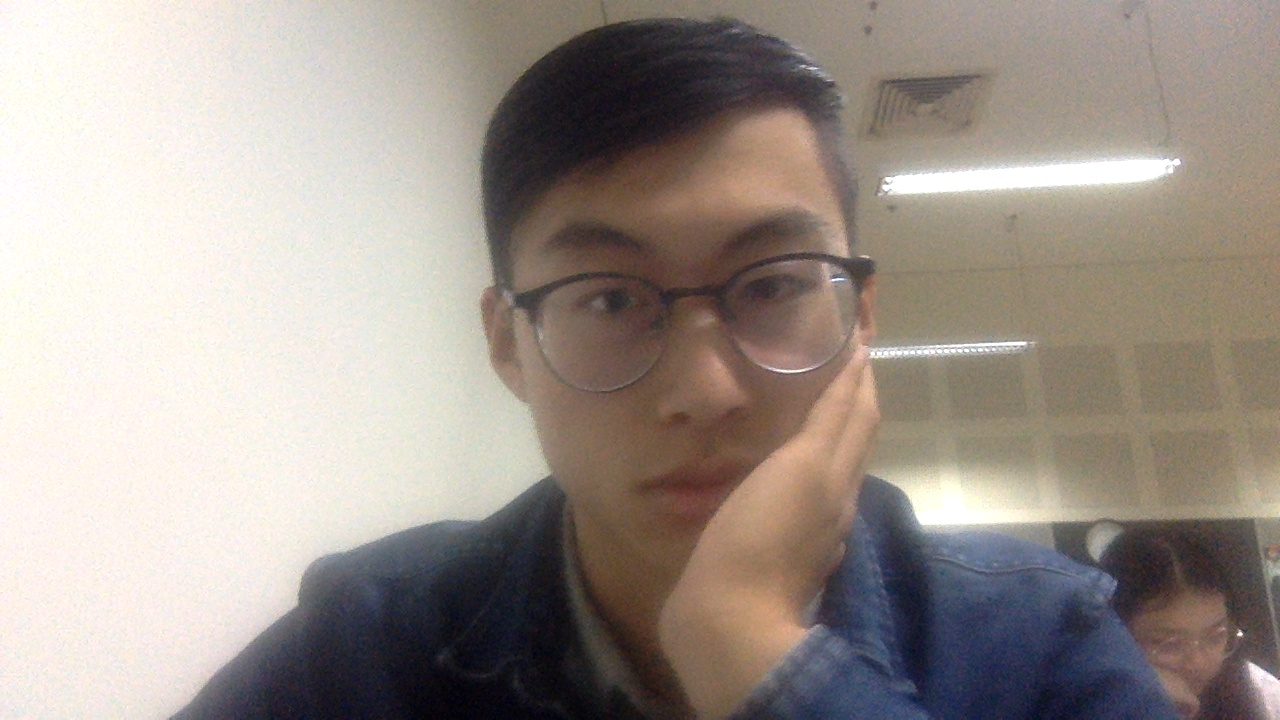
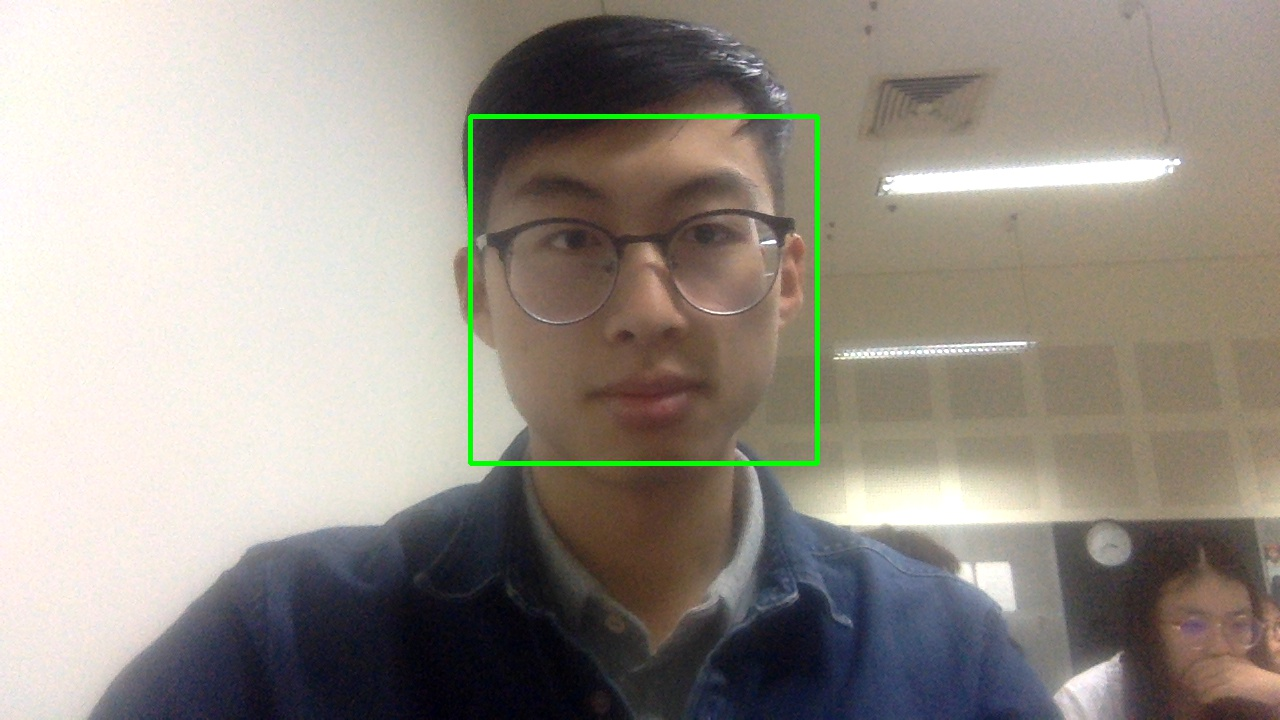
move part function to core detector

Changed region(s): [[0.0312, 0.0, 1.0, 1.0], [0.375, 0.825, 0.4062, 0.8861]]

diff --git a/src/team19/java/application/Controller.java b/src/team19/java/application/Controller.java
@@ -34,6 +34,7 @@ import javafx.scene.image.ImageView;
 import javafx.scene.layout.GridPane;
 import javafx.scene.layout.Pane;
 import javafx.scene.text.Text;
+import team19.java.core.Detector;
 import team19.java.util.ImageProcessing;
 
 /**
@@ -42,6 +43,7 @@ import team19.java.util.ImageProcessing;
  * 
  */
 public class Controller {
+	private Detector detector;
 	@FXML
 	private Text testInfo;
 
@@ -118,9 +120,7 @@ public class Controller {
 	private boolean addUserActive;
 	private boolean addRecordActive;
 
-	// face cascade classifier
-	private CascadeClassifier faceCascade;
-	private int absoluteFaceSize;
+
 
 	/**
 	 * Init the controller, at start time
@@ -133,9 +133,9 @@ public class Controller {
 		System.loadLibrary(Core.NATIVE_LIBRARY_NAME);
 		// initialize capture
 		this.capture = new VideoCapture();
-		this.faceCascade = new CascadeClassifier();
-		this.faceCascade.load("lib/FaceDetectionClassifier/lbpcascade_frontalface.xml");
-		this.absoluteFaceSize = 0;
+		
+		// initialize detector
+		this.detector = new Detector();
 
 		// initialize panes
 		analyticGridPane.setVisible(false);
@@ -337,7 +337,7 @@ public class Controller {
 
 				// if the frame is not empty, process it
 				if (!frame.empty()) {
-					detectFace(frame);
+					detector.detectFace(frame);
 					// recognizeFace();
 					// 
 					if(catchImageFlag) {
@@ -423,49 +423,7 @@ private void exportProfilePhoto (Mat photo, int uid){
 }
 
 
-/**
- * Method for face detection and tracking
- * 
- * @param frame
- *            it looks for faces in this frame
- */
-private void detectFace(Mat frame)
-{
-	
-		MatOfRect faces = new MatOfRect();
-		Mat grayFrame = new Mat();
-		
-		// convert the frame in gray scale
-		Imgproc.cvtColor(frame, grayFrame, Imgproc.COLOR_BGR2GRAY);
-		// equalize the frame histogram to improve the result
-		Imgproc.equalizeHist(grayFrame, grayFrame);
-		testInfo.setText("gray and equalize");
 
-		// compute minimum face size (20% of the frame height, in our case)
-		if (this.absoluteFaceSize == 0)
-		{
-			int height = grayFrame.rows();
-			if (Math.round(height * 0.2f) > 0)
-			{
-				this.absoluteFaceSize = Math.round(height * 0.2f);
-			}
-		}
-		testInfo.setText("2");
-
-		
-		// detect faces
-		this.faceCascade.detectMultiScale(grayFrame, faces, 1.1, 2, 0 | Objdetect.CASCADE_SCALE_IMAGE,
-				new Size(this.absoluteFaceSize, this.absoluteFaceSize), new Size());
-		testInfo.setText("3");
-
-		// each rectangle in faces is a face: draw them!
-		Rect[] facesArray = faces.toArray();
-		for (int i = 0; i < facesArray.length; i++)
-			Imgproc.rectangle(frame, facesArray[i].tl(), facesArray[i].br(), new Scalar(0, 255, 0), 3);
-	
-	
-		
-}
 
 
 

diff --git a/src/team19/java/core/Detector.java b/src/team19/java/core/Detector.java
@@ -1,0 +1,76 @@
+/**
+ * 
+ */
+package team19.java.core;
+
+import java.io.IOException;
+
+import org.opencv.core.Core;
+import org.opencv.core.Mat;
+import org.opencv.core.MatOfRect;
+import org.opencv.core.Point;
+import org.opencv.core.Rect;
+import org.opencv.core.Scalar;
+import org.opencv.core.Size;
+import org.opencv.imgproc.Imgproc;
+import org.opencv.objdetect.CascadeClassifier;
+import org.opencv.objdetect.Objdetect;
+
+
+/**
+ * @author Chu Wu
+ *  
+ */
+public class Detector {
+
+	private int absoluteFaceSize;
+	// face cascade classifier
+	private CascadeClassifier faceCascade;
+
+	public Detector(){
+		this.faceCascade = new CascadeClassifier();
+		this.faceCascade.load("lib/FaceDetectionClassifier/lbpcascade_frontalface.xml");
+		this.absoluteFaceSize = 0;
+	}
+			
+	/**
+	 * Method for face detection and tracking
+	 * 
+	 * @param frame
+	 *            it looks for faces in this frame
+	 */
+	public void detectFace(Mat frame)
+	{
+		
+			MatOfRect faces = new MatOfRect();
+			Mat grayFrame = new Mat();
+			
+			// convert the frame in gray scale
+			Imgproc.cvtColor(frame, grayFrame, Imgproc.COLOR_BGR2GRAY);
+			// equalize the frame histogram to improve the result
+			Imgproc.equalizeHist(grayFrame, grayFrame);
+
+			// compute minimum face size (20% of the frame height, in our case)
+			if (this.absoluteFaceSize == 0)
+			{
+				int height = grayFrame.rows();
+				if (Math.round(height * 0.2f) > 0)
+				{
+					this.absoluteFaceSize = Math.round(height * 0.2f);
+				}
+			}
+
+			
+			// detect faces
+			this.faceCascade.detectMultiScale(grayFrame, faces, 1.1, 2, 0 | Objdetect.CASCADE_SCALE_IMAGE,
+					new Size(this.absoluteFaceSize, this.absoluteFaceSize), new Size());
+
+			// each rectangle in faces is a face: draw them!
+			Rect[] facesArray = faces.toArray();
+			for (int i = 0; i < facesArray.length; i++)
+				Imgproc.rectangle(frame, facesArray[i].tl(), facesArray[i].br(), new Scalar(0, 255, 0), 3);
+		
+		
+			
+	}
+}
